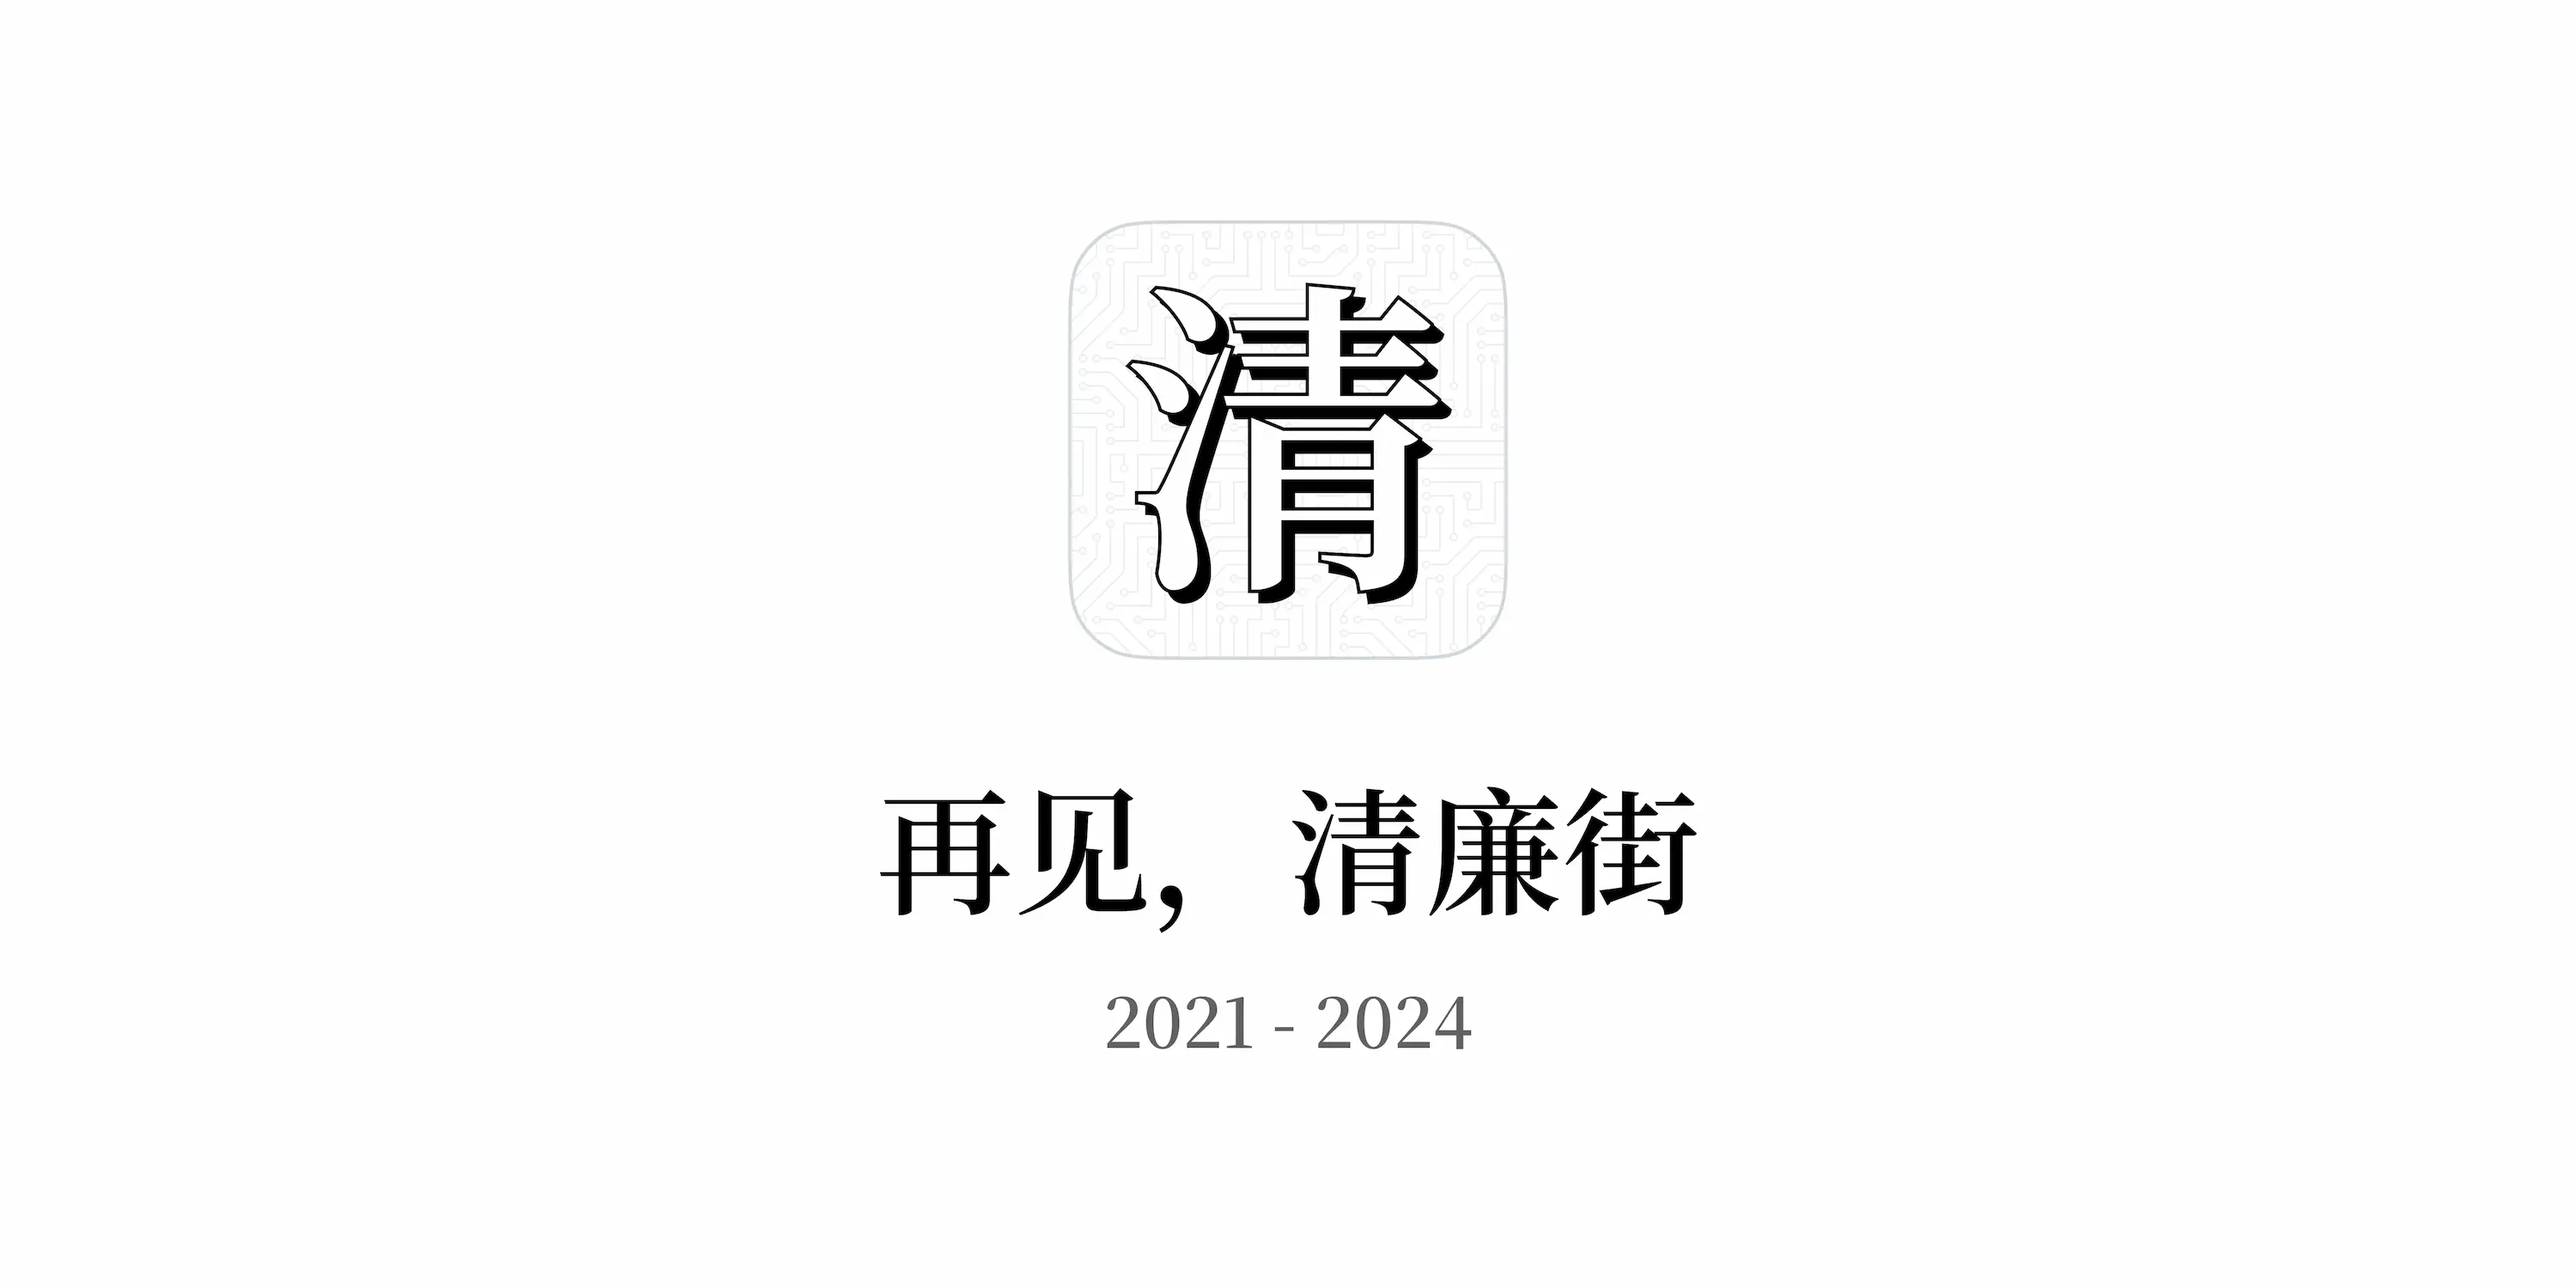
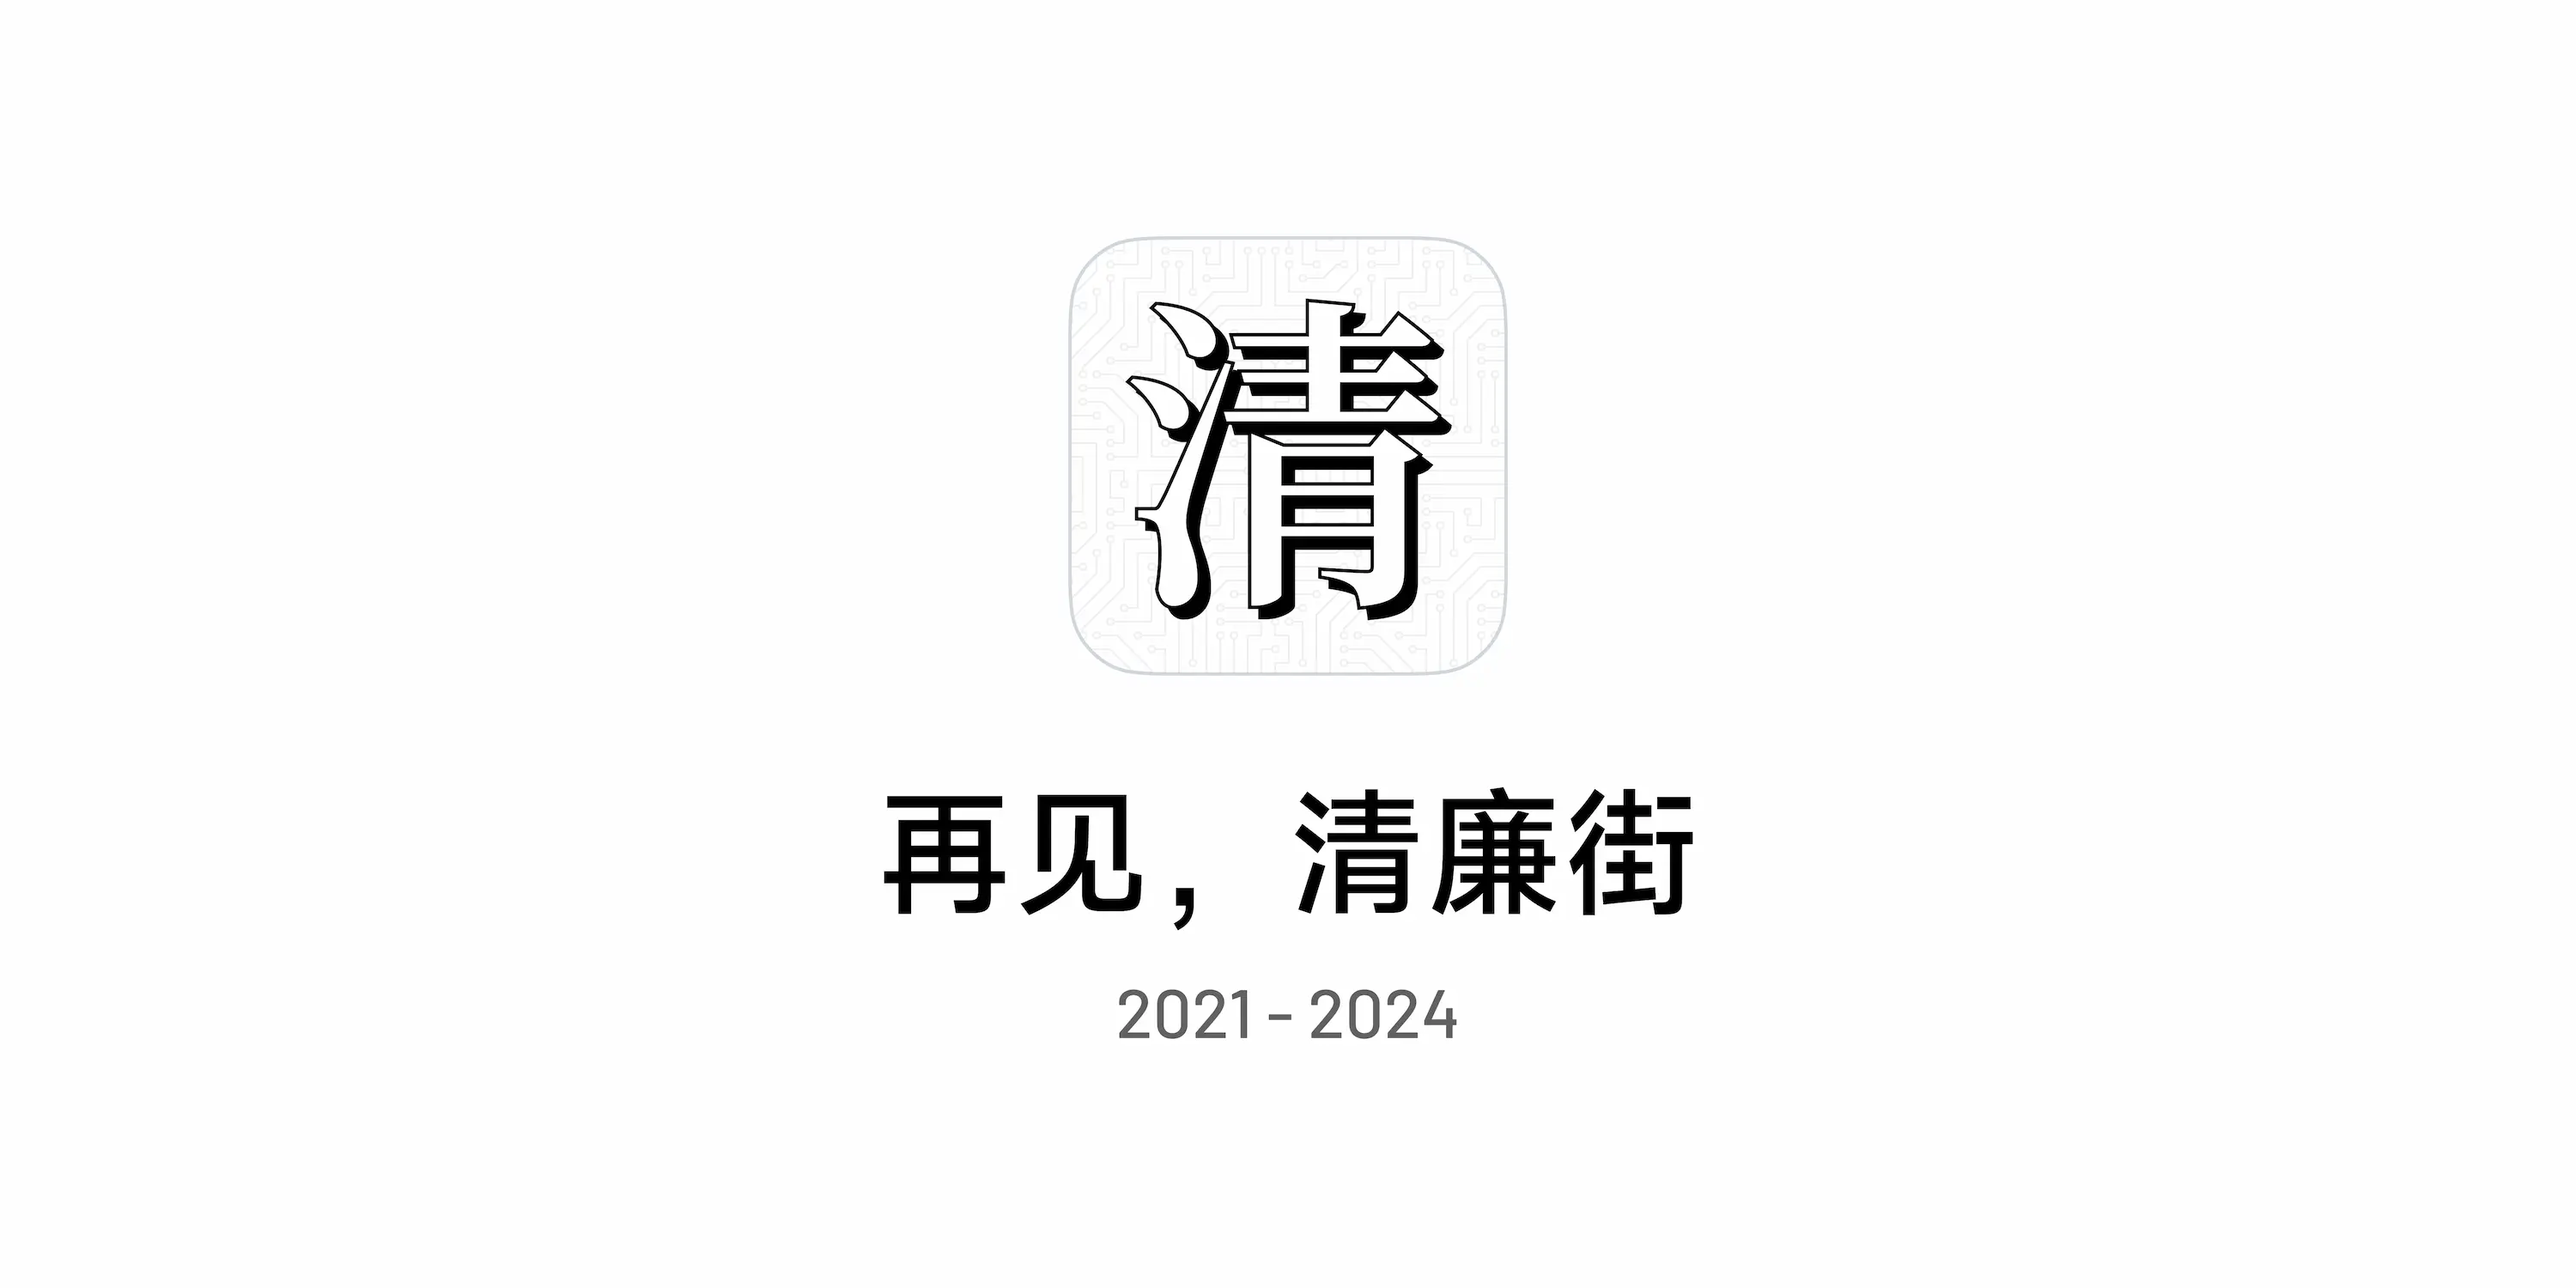
调整界面细节

diff --git a/.vitepress/theme/custom.css b/.vitepress/theme/custom.css
@@ -1,6 +1,7 @@
 :root {
-  --vp-font-family-base: Noto Serif, Source Han Serif SC, Cambria, Cochin,
-    Georgia, Times, 'Times New Roman', serif;
+  --vp-font-family-base: Inter Variable, Inter, -apple-system, HarmonyOS Sans SC,
+    MiSans, Source Han Sans SC, Noto Sans SC, system-ui, Roboto, emoji,
+    sans-serif;
   --vp-c-text-1: black;
 }
 
@@ -8,23 +9,39 @@
   --vp-c-text-1: rgba(255, 255, 245, 0.86);
 }
 
-.vp-doc.strong,
-.vp-doc.h1,
-.vp-doc.h2 {
-  font-weight: 700;
+.vp-doc strong,
+.vp-doc h1,
+.vp-doc h2 {
+  font-weight: 600;
 }
 
-p {
+.vp-doc p {
   text-align: justify;
 }
 
-.main img {
+.vp-doc img {
   border-radius: 8px;
-  border: solid 1px rgba(0, 0, 0, 0.1);
+  border: solid 1px var(--vp-c-divider);
+  box-shadow: 0 0.5rem 1.5rem rgba(0, 0, 0, 0.1);
 }
 
-.main h1 + blockquote {
-  margin: 0.5rem 0;
+.logo {
+  border-radius: 4px;
+  border: solid 1px var(--vp-c-divider);
+}
+
+.divider {
+  background-color: transparent !important;
+}
+
+.divider-line {
+  background-color: transparent !important;
+  border-bottom: solid 1px var(--vp-c-divider);
+}
+
+.VPContent {
+  padding-top: 0 !important;
+  padding-bottom: 0 !important;
 }
 
 .VPNav {

diff --git a/src/index.md b/src/index.md
@@ -4,17 +4,13 @@ titleTemplate: false
 next: false
 ---
 
-<img src="./images/再见，清廉街.webp" alt="再见，清廉街" width="6000" height="3000">
-
-<br />
+<p><img class="" src="./images/再见，清廉街.webp" alt="再见，清廉街" width="6000" height="3000"></p>
 
 <br />
 
 # 清廉街 <mark>不再维护</mark>
 
 > 👋 好久不见
-
-<br />
 
 你可能已经注意到了，清廉街网站已经有一段时间无法访问了。
 
@@ -26,13 +22,13 @@ next: false
 
 事情的开始要从「[腐败街](https://www.fubaijie.cn)」说起。在大概 2019-2020 年左右，当时学校教务网站并不好用，而且也不好看，后来某位大佬开发了腐败街网站（这个名字起的很好，来源于校内一个已经成为历史的小吃街），可以实现从教务网站抓取和整理数据，并提供了课程评论的功能。
 
-<img src="./images/腐败街（2024年）.webp" alt="腐败街（2024年）" width="2048" height="1536" loading="lazy">
+<p><img src="./images/腐败街（2024年）.webp" alt="腐败街（2024年）" width="2048" height="1536" loading="lazy"></p>
 
 > <small>🫡 2024 年的腐败街网站</small>
 
-清廉街项目始于 2021 年，清廉街网站的出现是因为腐败街网站加入了广告，而且也没有开源，在账号数据的储存和使用上并不透明，我们希望做一个新的网站，可以解决这些问题，帮助同学们更方便地查成绩和课程信息，所以就有了 [清廉街](https://qinglianjie.cn) 这个网站。
+清廉街项目始于 2021 年，清廉街网站的出现是因为腐败街网站加入了广告，而且也没有开源，在账号数据的储存和使用上并不透明，我们希望做一个新的网站，可以解决这些问题，帮助同学们更方便地查成绩和课程信息，所以就有了「[清廉街](https://qinglianjie.cn)」这个网站。
 
-再后来，时间来到 2022 年，负责清廉街开发和维护的同学大部分已经陆续毕业，走入社会，因工作繁忙和需要处理的事务较多，没有足够的时间进行 [测试版](https://dev.qinglianjie.cn/) 的开发工作，导致了项目的停滞。
+再后来，时间来到 2022 年，负责清廉街开发和维护的同学大部分已经陆续毕业，走入社会，因工作繁忙和需要处理的事务较多，没有足够的时间进行「[测试版](https://dev.qinglianjie.cn/)」的开发工作，导致了项目的停滞。
 
 <img src="./images/清廉街未完成的测试版.webp" alt="清廉街未完成的测试版" width="2047" height="1536" loading="lazy">
 
@@ -42,7 +38,7 @@ next: false
 
 时间来到了 2024 年，很多曾经使用过清廉街的同学可能会发现，清廉街的网站已经打不开了，属于「年久失修」了，但我们还没有放弃这个网站。
 
-<img src="./images/打不开的清廉街网站.webp" alt="打不开的清廉街网站" width="2160" height="1620" loading="lazy">
+<p><img src="./images/打不开的清廉街网站.webp" alt="打不开的清廉街网站" width="2160" height="1620" loading="lazy"></p>
 
 > <small>🚧 打不开的清廉街网站</small>
 
